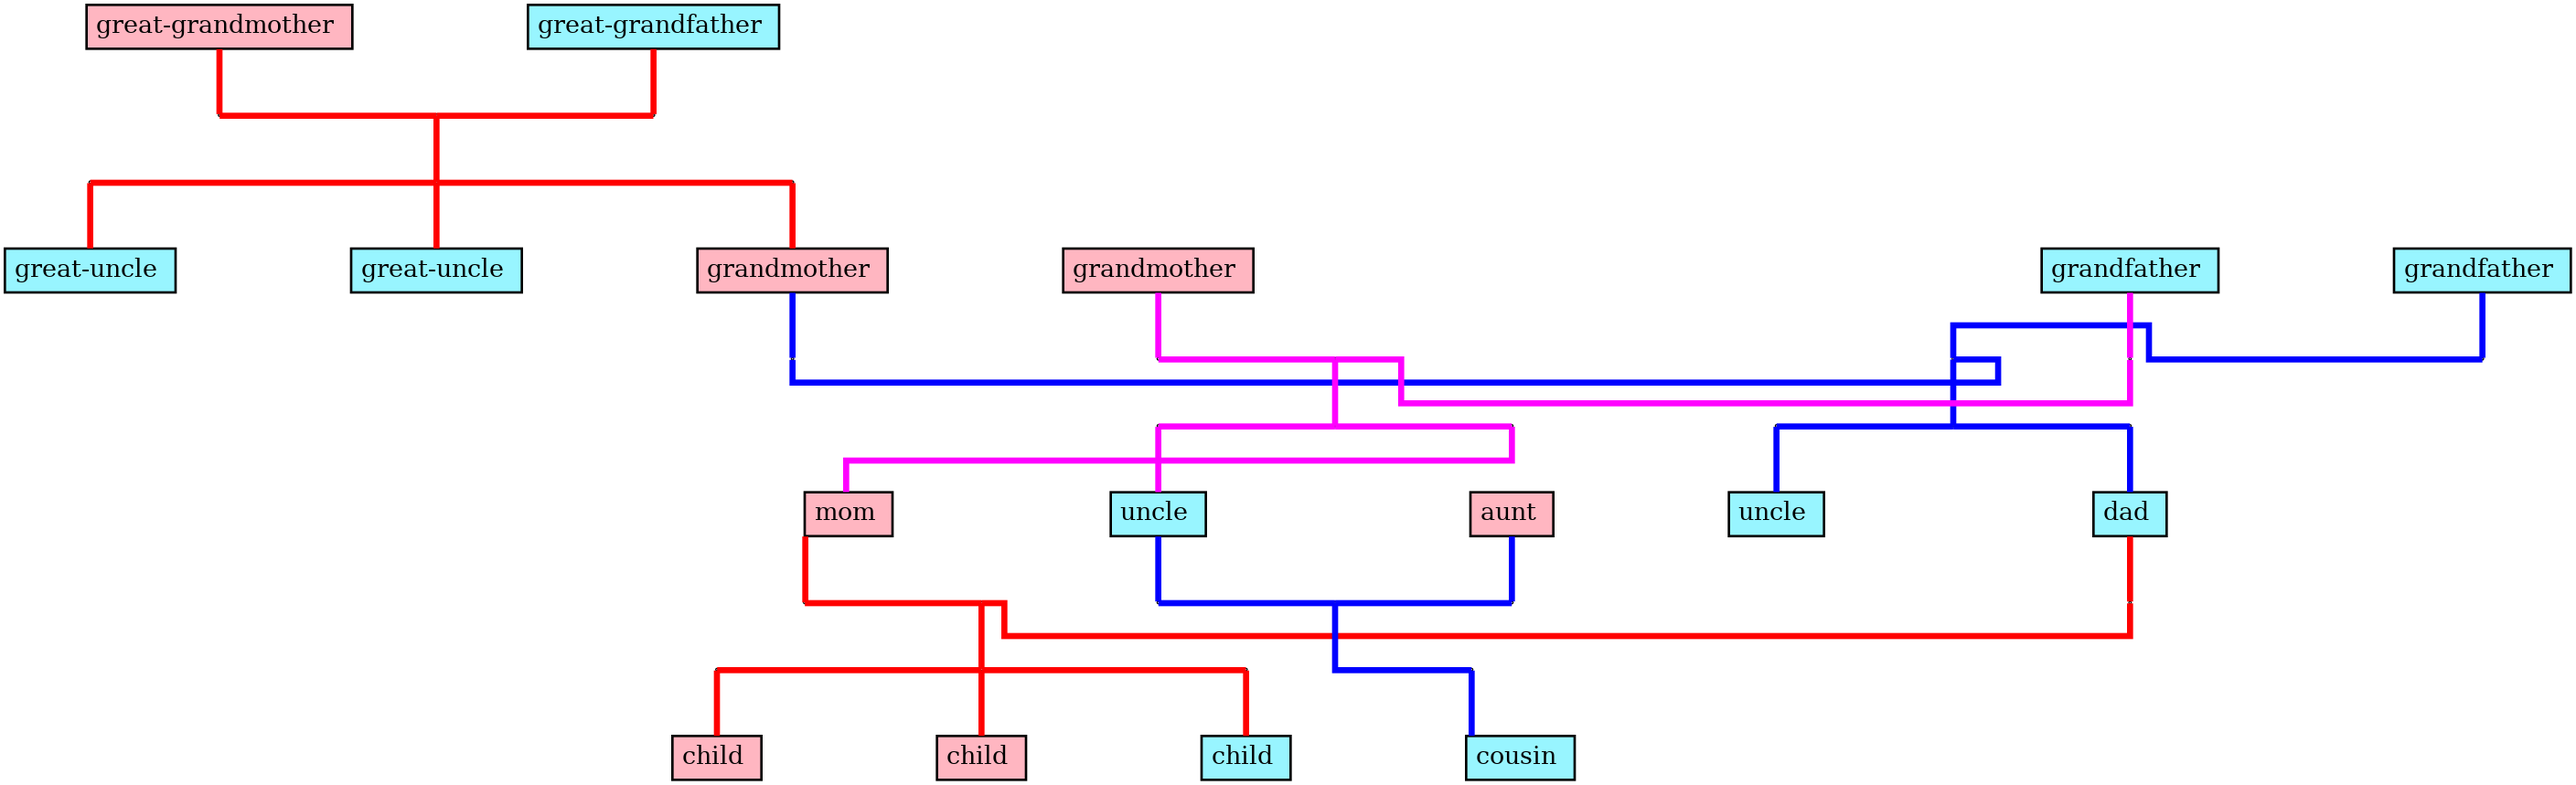
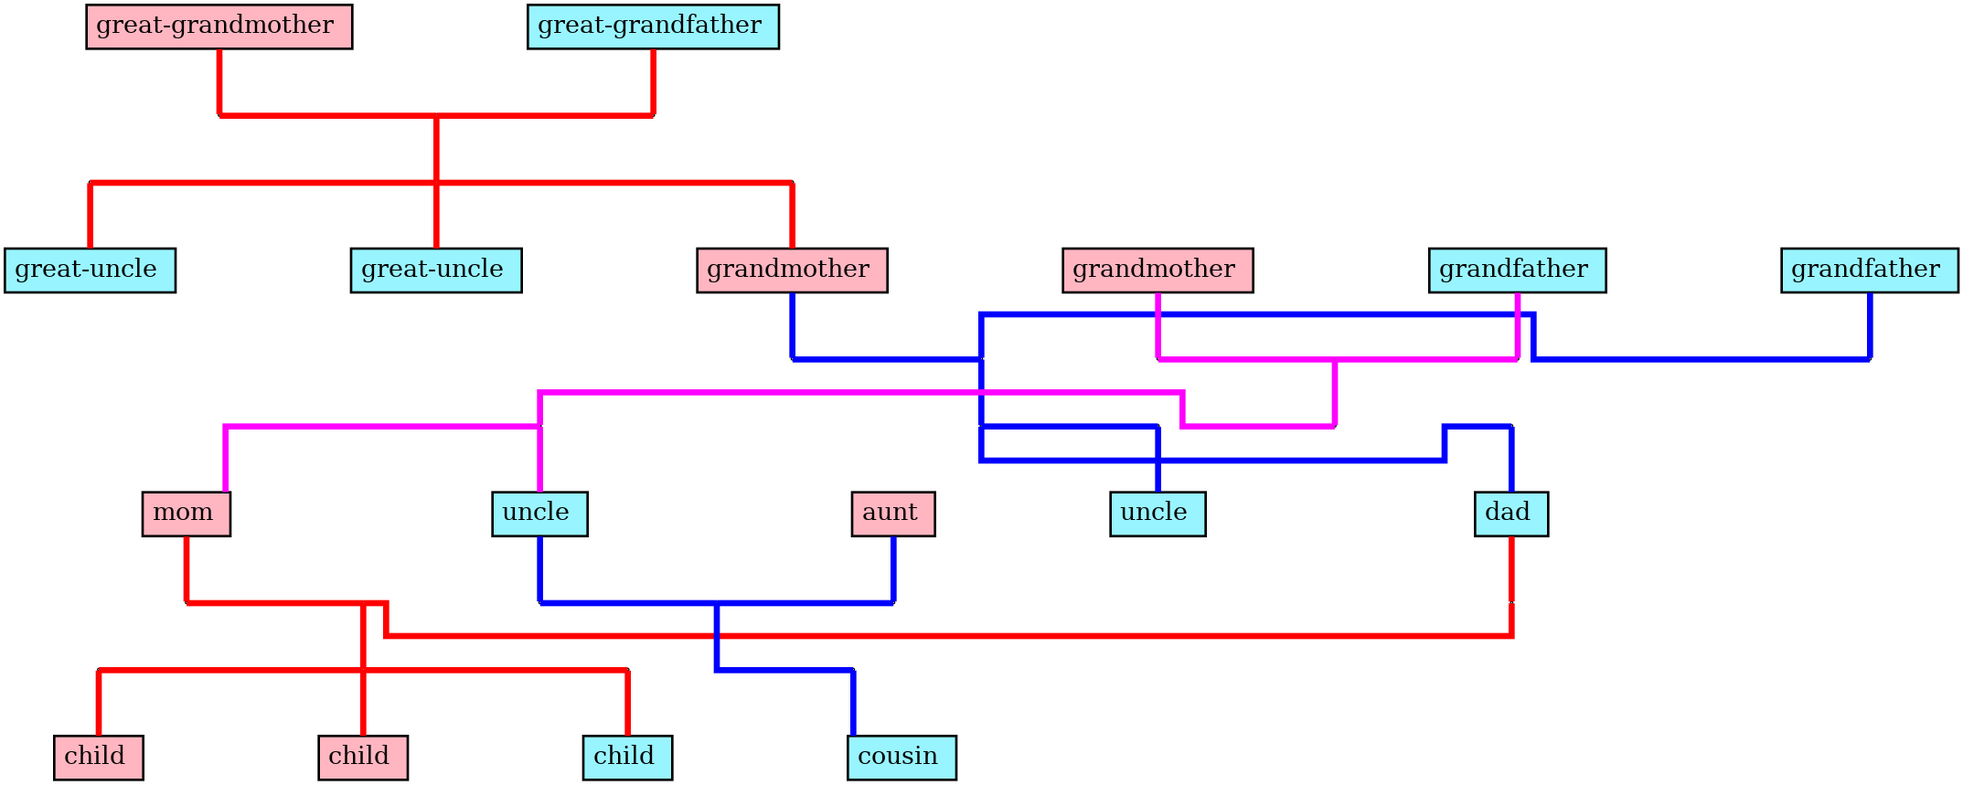
layout optimizations

diff --git a/tree_graph/PygraphvizTree.py b/tree_graph/PygraphvizTree.py
@@ -353,7 +353,7 @@ class Graph:
 
         # μετά την πρώτη σχεδίαση, κλήση της optimize_edges για διόρθωση κακών διασταυρώσεων
         self.optimize_edges(graph, people, realign_spouses=True)
-        graph.layout(prog="dot")
+        #graph.layout(prog="dot")
         self.optimize_edges(graph, people, center=True)
         #graph.layout(prog="dot")
         self.optimize_edges(graph, people, realign_siblings=True)
@@ -429,7 +429,7 @@ class Graph:
                         graph.layout(prog="dot")
         elif realign_siblings:
             for person in people:
-                if person.siblings and len(person.siblings) > 1:
+                if person.siblings:
                     # συντεταγμένη Χ κόμβου ατόμου
                     current = graph.get_node(person.id)
                     current_x = float(graph.get_node(current).attr['pos'].split(',')[0])
